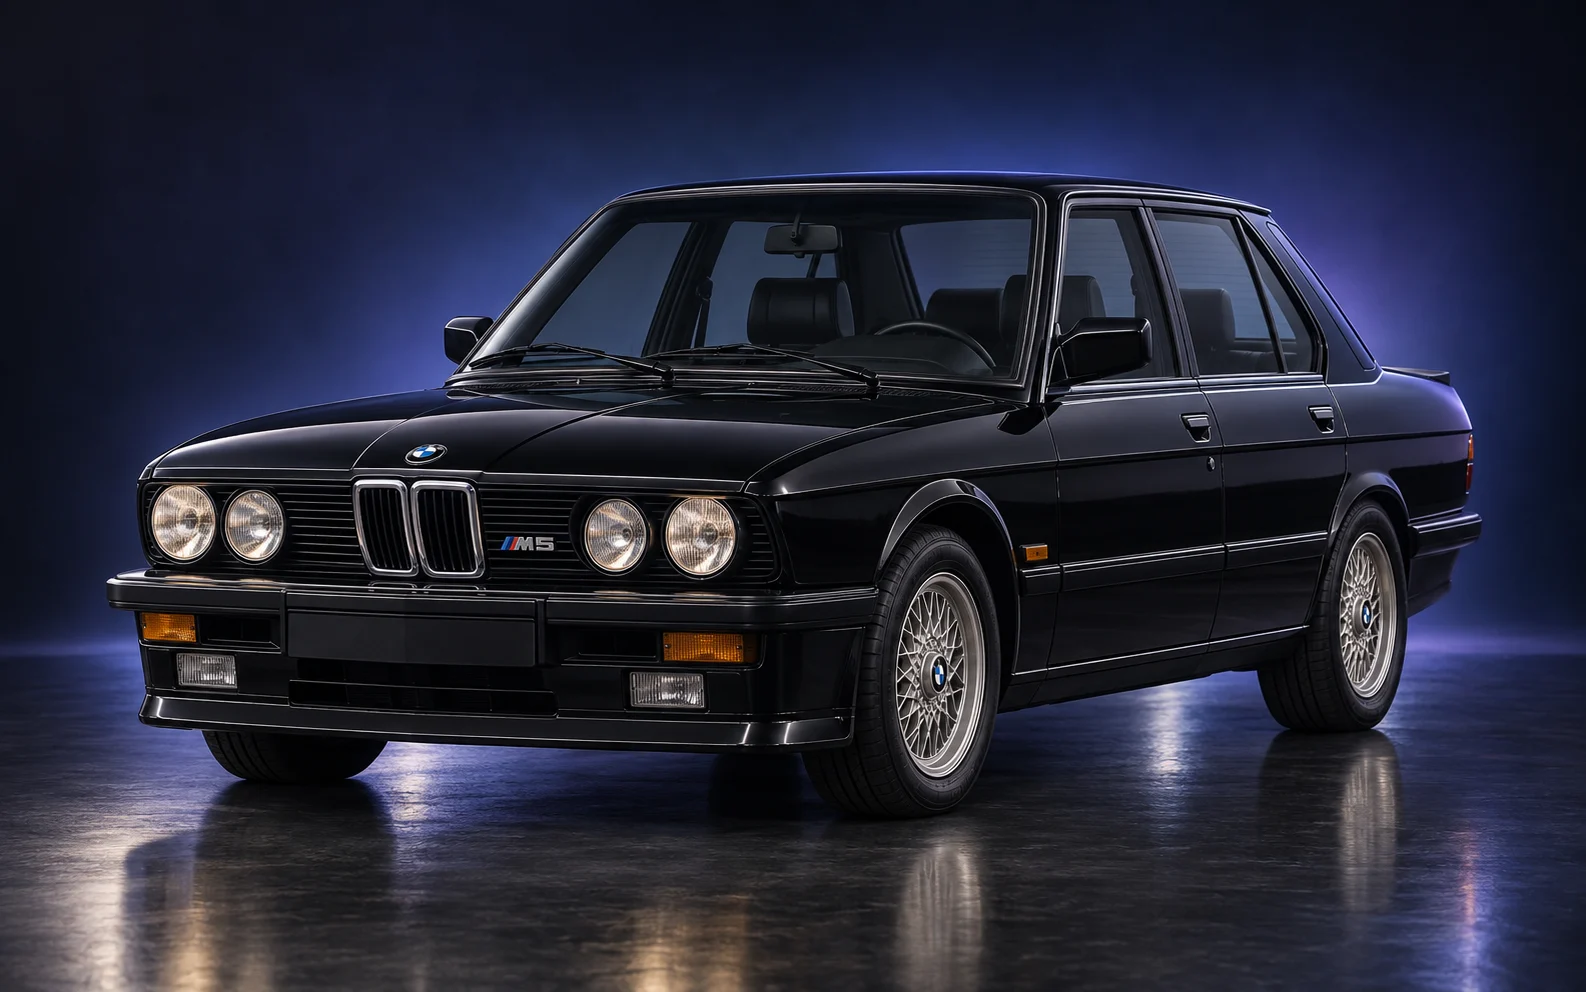
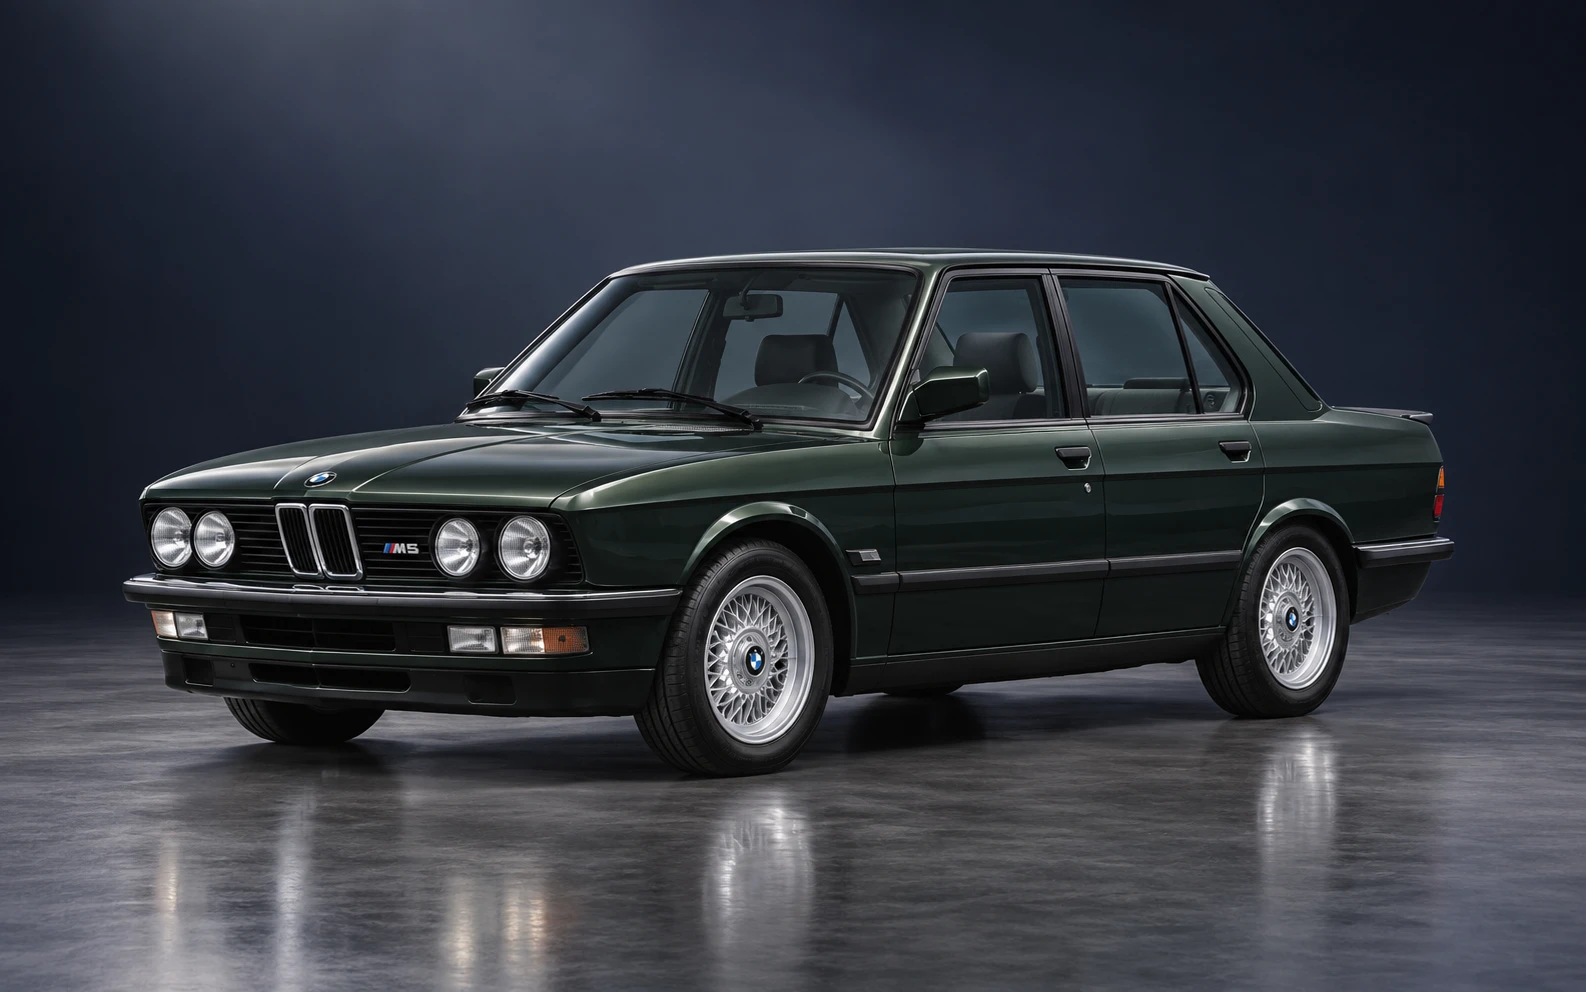
content: complete M5 studio image set

diff --git a/src/data/assets/index.ts b/src/data/assets/index.ts
@@ -18,6 +18,121 @@ const editorialPhoto = (
     : "Редакционная визуализация; требуется повторная проверка по точному референсному снимку.",
   reference,
 });
+const m5References: Record<string, PhotoReference> = {
+  e28: {
+    publisher: "BMW Group PressClub",
+    page: "https://www.press.bmwgroup.com/global/photo/detail/P90560208/",
+    imageUrl:
+      "https://mediapool.bmwgroup.com/download/edown/pressclub/publicq?actEvent=image&attachment=1&dokNo=P90560208",
+    localFile: "references/images/P90560208-bmw-m5-e28.jpg",
+    imageId: "P90560208",
+    phase: "launch",
+    verifiedDetails: [
+      "четырёхдверный кузов M5 E28",
+      "узкая двойная решётка и четыре круглые фары",
+      "тонкие бамперы и чёрные боковые молдинги",
+      "короткий передний свес и классическая линия крыши",
+      "расширенные арки и многоспицевые колёса",
+    ],
+  },
+  e34: {
+    publisher: "BMW Group PressClub",
+    page: "https://www.press.bmwgroup.com/global/photo/detail/P90560209/",
+    imageUrl:
+      "https://mediapool.bmwgroup.com/download/edown/pressclub/publicq?actEvent=image&attachment=1&dokNo=P90560209",
+    localFile: "references/images/P90560209-bmw-m5-e34.jpg",
+    imageId: "P90560209",
+    phase: "launch",
+    verifiedDetails: [
+      "четырёхдверный кузов M5 E34",
+      "узкая двойная решётка и четыре круглые фары",
+      "прямоугольные внешние зеркала и чёрные молдинги",
+      "характерная линия багажника и тонкие бамперы",
+      "пятиспицевые M-колёса и пропорции седана",
+    ],
+  },
+  e39: {
+    publisher: "BMW Group PressClub",
+    page: "https://www.press.bmwgroup.com/global/photo/detail/P90560210/",
+    imageUrl:
+      "https://mediapool.bmwgroup.com/download/edown/pressclub/publicq?actEvent=image&attachment=1&dokNo=P90560210",
+    localFile: "references/images/P90560210-bmw-m5-e39.jpg",
+    imageId: "P90560210",
+    phase: "launch",
+    verifiedDetails: [
+      "четырёхдверный кузов M5 E39",
+      "двойная решётка с хромированной окантовкой",
+      "четыре круглых модуля фар под прозрачными линзами",
+      "M-бамперы, боковые молдинги и расширенные арки",
+      "классические многоспицевые M-колёса",
+    ],
+  },
+  e60: {
+    publisher: "BMW Group PressClub",
+    page: "https://www.press.bmwgroup.com/global/photo/detail/P90560211/",
+    imageUrl:
+      "https://mediapool.bmwgroup.com/download/edown/pressclub/publicq?actEvent=image&attachment=1&dokNo=P90560211",
+    localFile: "references/images/P90560211-bmw-m5-e60.jpg",
+    imageId: "P90560211",
+    phase: "launch",
+    verifiedDetails: [
+      "четырёхдверный кузов M5 E60",
+      "плавная линия капота и характерная передняя оптика",
+      "M-жабер на переднем крыле",
+      "широкие арки и боковые юбки",
+      "серебристые многоспицевые M-колёса",
+    ],
+  },
+  f10: {
+    publisher: "BMW Group PressClub",
+    page: "https://www.press.bmwgroup.com/global/photo/detail/P90560212/",
+    imageUrl:
+      "https://mediapool.bmwgroup.com/download/edown/pressclub/publicq?actEvent=image&attachment=1&dokNo=P90560212",
+    localFile: "references/images/P90560212-bmw-m5-f10.jpg",
+    imageId: "P90560212",
+    phase: "launch",
+    verifiedDetails: [
+      "четырёхдверный кузов M5 F10",
+      "сдвоенная M-решётка и фары с двойными световыми модулями",
+      "широкий передний бампер с боковыми воздухозаборниками",
+      "M-жабер на переднем крыле",
+      "чёрные многоспицевые M-колёса и пропорции седана",
+    ],
+  },
+  f90: {
+    publisher: "BMW Group PressClub",
+    page: "https://www.press.bmwgroup.com/global/photo/detail/P90560213/",
+    imageUrl:
+      "https://mediapool.bmwgroup.com/download/edown/pressclub/publicq?actEvent=image&attachment=1&dokNo=P90560213",
+    localFile: "references/images/P90560213-bmw-m5-f90.jpg",
+    imageId: "P90560213",
+    phase: "launch",
+    verifiedDetails: [
+      "четырёхдверный кузов M5 F90",
+      "M-решётка и узкие LED-фары",
+      "глубокие воздухозаборники переднего бампера",
+      "M-жабер на переднем крыле и широкие арки",
+      "чёрные многоспицевые M-колёса",
+    ],
+  },
+  g90: {
+    publisher: "BMW Group PressClub",
+    page: "https://www.press.bmwgroup.com/global/photo/detail/P90557399/the-all-new-bmw-m5-06/2024",
+    imageUrl:
+      "https://mediapool.bmwgroup.com/cache/P9/202406/P90557399/P90557399-the-all-new-bmw-m5-06-2024-2250px.jpg",
+    localFile: "references/images/P90557399-bmw-m5-g90.jpg",
+    imageId: "P90557399",
+    phase: "launch",
+    verifiedDetails: [
+      "четырёхдверный кузов M5 Sedan G90",
+      "M-решётка с горизонтальными внутренними планками",
+      "форма фар и переднего бампера",
+      "широкие передние крылья",
+      "зарядный лючок на переднем левом крыле",
+      "передние M-колёса и пропорции седана",
+    ],
+  },
+};
 const photoByGeneration: Record<string, PhotoMetadata> = {
   ...Object.fromEntries(
     ["e8x", "f20", "f40", "f70"].map((code) => [
@@ -455,25 +570,7 @@ const photoByGeneration: Record<string, PhotoMetadata> = {
         `editorial-bmw-m5-${code}.webp`,
         "https://www.bmw-m.com/en/topics/magazine-article-pool/the-generations-of-the-bmw-m5-an-overview.html",
         `BMW M5 · ${code.toUpperCase()}`,
-        code === "g90"
-          ? {
-              publisher: "BMW Group PressClub",
-              page: "https://www.press.bmwgroup.com/global/photo/detail/P90557399/the-all-new-bmw-m5-06/2024",
-              imageUrl:
-                "https://mediapool.bmwgroup.com/cache/P9/202406/P90557399/P90557399-the-all-new-bmw-m5-06-2024-2250px.jpg",
-              localFile: "references/images/P90557399-bmw-m5-g90.jpg",
-              imageId: "P90557399",
-              phase: "launch",
-              verifiedDetails: [
-                "четырёхдверный кузов M5 Sedan G90",
-                "M-решётка с горизонтальными внутренними планками",
-                "форма фар и переднего бампера",
-                "широкие передние крылья",
-                "зарядный лючок на переднем левом крыле",
-                "передние M-колёса и пропорции седана",
-              ],
-            }
-          : undefined,
+        m5References[code],
       ),
     ]),
   ),

diff --git a/src/data/snapshot.test.ts b/src/data/snapshot.test.ts
@@ -50,6 +50,12 @@ describe("BMW distribution", () => {
       "bmw-m2-f87",
       "bmw-m2-g87",
       "bmw-m3-g80",
+      "bmw-m5-e28",
+      "bmw-m5-e34",
+      "bmw-m5-e39",
+      "bmw-m5-e60",
+      "bmw-m5-f10",
+      "bmw-m5-f90",
       "bmw-m5-g90",
       "bmw-m6-e24",
       "bmw-m6-e63",
